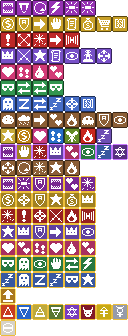
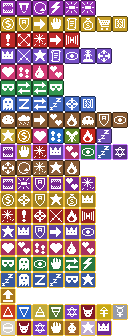
Seven Sins 1.2.1: Solomon's ultimates (levels 15 and 25), walk strides for envy, lust and wrath
Solomon learns one of three ultimates at level 15 and one of three at 25:
Legion of the Goetia, Eternal Circle, Command of the Ring / Brass Vessel,
Magnum Opus, Throne of Wisdom.

Claude-Session: https://claude.ai/code/session_012M3rhPDTM1aAWScAh2m7cE

Changed region(s): [[0.125, 0.9524, 0.875, 1.0]]

diff --git a/core/src/main/java/com/shatteredpixel/shatteredpixeldungeon/sins/UltimateSkills.java b/core/src/main/java/com/shatteredpixel/shatteredpixeldungeon/sins/UltimateSkills.java
@@ -68,6 +68,15 @@ public final class UltimateSkills {
 				&& hero.heroClass.ordinal() <= HeroClass.SLOTH.ordinal();
 	}
 
+	/** the sins and Solomon learn ultimates */
+	public static boolean hasUltimates(Hero hero) {
+		return isSin(hero) || (hero != null && hero.heroClass == HeroClass.SOLOMON);
+	}
+
+	private static int level(Hero hero, int tier) {
+		return Ultimate.level(hero.heroClass, tier);
+	}
+
 	public static UltimateBook book(Hero hero) {
 		return hero == null ? null : hero.buff(UltimateBook.class);
 	}
@@ -76,14 +85,14 @@ public final class UltimateSkills {
 	public static int pendingTier(Hero hero) {
 		UltimateBook b = book(hero);
 		if (b == null) return 0;
-		if (hero.lvl >= Ultimate.TIER1_LEVEL && b.first == null) return 1;
-		if (hero.lvl >= Ultimate.TIER2_LEVEL && b.second == null) return 2;
+		if (hero.lvl >= level(hero, 1) && b.first == null) return 1;
+		if (hero.lvl >= level(hero, 2) && b.second == null) return 2;
 		return 0;
 	}
 
 	/** from Hero.act: gives sin heroes the book and announces open choices */
 	public static void tick(Hero hero) {
-		if (!isSin(hero)) return;
+		if (!hasUltimates(hero)) return;
 		UltimateBook b = book(hero);
 		if (b == null) {
 			b = Buff.affect(hero, UltimateBook.class);
@@ -92,11 +101,11 @@ public final class UltimateSkills {
 		int t = pendingTier(hero);
 		if (t == 1 && !b.told1) {
 			b.told1 = true;
-			GLog.p(Messages.get(UltimateSkills.class, "can_learn", Ultimate.TIER1_LEVEL));
+			GLog.p(Messages.get(UltimateSkills.class, "can_learn", level(hero, 1)));
 			resyncBar();
 		} else if (t == 2 && !b.told2) {
 			b.told2 = true;
-			GLog.p(Messages.get(UltimateSkills.class, "can_learn", Ultimate.TIER2_LEVEL));
+			GLog.p(Messages.get(UltimateSkills.class, "can_learn", level(hero, 2)));
 			resyncBar();
 		}
 	}
@@ -116,7 +125,7 @@ public final class UltimateSkills {
 	public static ArrayList<SinSkill> skills(Hero hero) {
 		ArrayList<SinSkill> out = new ArrayList<>();
 		UltimateBook b = book(hero);
-		if (b == null || !isSin(hero)) return out;
+		if (b == null || !hasUltimates(hero)) return out;
 		if (b.first != null) out.add(new UltimateSkill(b.first));
 		if (b.second != null) out.add(new UltimateSkill(b.second));
 		if (pendingTier(hero) > 0) out.add(new LearnSkill());
@@ -189,7 +198,7 @@ public final class UltimateSkills {
 
 		@Override
 		public String desc(Hero hero) {
-			return Messages.get(UltimateSkills.class, "learn_desc", Ultimate.TIER1_LEVEL, Ultimate.TIER2_LEVEL);
+			return Messages.get(UltimateSkills.class, "learn_desc", level(hero, 1), level(hero, 2));
 		}
 
 		@Override
@@ -216,7 +225,7 @@ public final class UltimateSkills {
 		String[] labels = new String[options.size()];
 		for (int i = 0; i < labels.length; i++) labels[i] = options.get(i).title();
 		GameScene.show(new WndOptions(new SinSkillIcon(Ultimate.LEARN_ICON).image(),
-				Messages.get(UltimateSkills.class, "choose_title", tier == 1 ? Ultimate.TIER1_LEVEL : Ultimate.TIER2_LEVEL),
+				Messages.get(UltimateSkills.class, "choose_title", level(hero, tier)),
 				Messages.get(UltimateSkills.class, "choose_msg"), labels) {
 			@Override
 			protected void onSelect(int index) {
@@ -301,6 +310,15 @@ public final class UltimateSkills {
 			case MIDAS: return new Object[]{15 * Math.max(1, Dungeon.depth)};
 			case COMPOUND: return new Object[]{100 * Math.max(1, Dungeon.depth)};
 			case FATAL_KISS: return new Object[]{Math.round(h.HT * 0.4f)};
+			case LEGION_GOETIA: return new Object[]{LEGION_COUNT, Math.round(LEGION_TURNS)};
+			case ETERNAL_CIRCLE: return new Object[]{Math.round(ETERNAL_TURNS)};
+			case RING_COMMAND: return new Object[]{Math.round(COMMAND_TURNS), Math.round(COMMAND_BOSS_PARA)};
+			case BRASS_VESSEL: return new Object[]{Math.round(VESSEL_TURNS)};
+			case MAGNUM_OPUS: {
+				float p = spellPower(h);
+				return new Object[]{Math.round(2 * l * p), Math.round((3 * l + 10) * p), 10 * Math.max(1, Dungeon.depth)};
+			}
+			case THRONE_OF_WISDOM: return new Object[]{Math.round(THRONE_TURNS)};
 			default: return new Object[0];
 		}
 	}
@@ -589,9 +607,97 @@ public final class UltimateSkills {
 				return true;
 			}
 			case DAYDREAM: effect(hero, u, 25f); return true;
+
+			case LEGION_GOETIA: return legion(hero);
+			case ETERNAL_CIRCLE: effect(hero, u, ETERNAL_TURNS); Sample.INSTANCE.play(Assets.Sounds.CHARGEUP); return true;
+			case MAGNUM_OPUS: {
+				ArrayList<Mob> foes = enemies(hero, 0);
+				if (foes.isEmpty()) {
+					GLog.w(Messages.get(UltimateSkills.class, "no_enemies"));
+					return false;
+				}
+				float p = spellPower(hero);
+				for (Mob m : foes) {
+					m.damage(Math.round(big(hero) * p), Ultimate.class);
+					CellEmitter.center(m.pos).burst(Speck.factory(Speck.LIGHT), 5);
+					if (m.isAlive() && !boss(m) && m.HP < m.HT / 4f) {
+						int pos = m.pos;
+						CellEmitter.get(pos).burst(Speck.factory(Speck.WOOL), 8);
+						kill(m);
+						Dungeon.level.drop(new Gold(10 * Math.max(1, Dungeon.depth)), pos).sprite.drop();
+					}
+				}
+				Sample.INSTANCE.play(Assets.Sounds.LIGHTNING);
+				return true;
+			}
+			case THRONE_OF_WISDOM: effect(hero, u, THRONE_TURNS); Sample.INSTANCE.play(Assets.Sounds.LEVELUP); return true;
 			default:
 				return false;
 		}
+	}
+
+	// ------------------------------------------------------------------ Solomon (Nov 19 2026)
+
+	public static final int LEGION_COUNT = 3;
+	public static final float LEGION_TURNS = 15f;
+	public static final float ETERNAL_TURNS = 12f;
+	public static final float COMMAND_TURNS = 30f;
+	public static final float COMMAND_BOSS_PARA = 3f;
+	public static final float VESSEL_TURNS = 5f;
+	public static final float THRONE_TURNS = 20f;
+
+	private static float spellPower(Hero hero) {
+		com.shatteredpixel.shatteredpixeldungeon.actors.buffs.SolomonArcana a =
+				hero.buff(com.shatteredpixel.shatteredpixeldungeon.actors.buffs.SolomonArcana.class);
+		return a == null ? 1f : a.spellPower();
+	}
+
+	/** Eternal Circle: casting keeps the circle and costs half (SolomonHooks) */
+	public static boolean eternalCircle(Hero hero) {
+		return active(hero, Ultimate.ETERNAL_CIRCLE) != null;
+	}
+
+	/** Throne of Wisdom: every principle, free drawing, mana x3 (SolomonHooks, SolomonArcana, SolomonRing) */
+	public static boolean throne(Hero hero) {
+		return active(hero, Ultimate.THRONE_OF_WISDOM) != null;
+	}
+
+	/** a pact of the ultimates: like a summon's, but outside the summon limit (Char.buff matches exact classes) */
+	public static class RingPact extends com.shatteredpixel.shatteredpixeldungeon.solomon.SolomonSpells.SummonPact {
+	}
+
+	/** Legion of the Goetia: the strongest demons of the Lemegeton all at once */
+	private static boolean legion(Hero hero) {
+		ArrayList<com.shatteredpixel.shatteredpixeldungeon.goetia.GoetiaDemon> list =
+				com.shatteredpixel.shatteredpixeldungeon.solomon.SolomonSpells.summonable();
+		if (list.isEmpty()) {
+			GLog.w(Messages.get(com.shatteredpixel.shatteredpixeldungeon.solomon.SolomonSpells.class, "no_demons"));
+			return false;
+		}
+		ArrayList<Integer> cells = new ArrayList<>();
+		for (int n : PathFinder.NEIGHBOURS8) {
+			int c = hero.pos + n;
+			if (Dungeon.level.passable[c] && !Dungeon.level.avoid[c] && Actor.findChar(c) == null) cells.add(c);
+		}
+		int made = 0;
+		for (int i = 0; i < LEGION_COUNT && i < list.size() && !cells.isEmpty(); i++) {
+			com.shatteredpixel.shatteredpixeldungeon.actors.mobs.goetia.GoetiaFiend f =
+					new com.shatteredpixel.shatteredpixeldungeon.actors.mobs.goetia.GoetiaFiend();
+			f.setup(list.get(i), Math.max(Dungeon.depth, Dungeon.scalingDepth()));
+			f.minion = true;
+			f.pos = cells.remove(Random.Int(cells.size()));
+			f.state = f.WANDERING;
+			GameScene.add(f);
+			Buff.affect(f, RingPact.class).set(LEGION_TURNS);
+			CellEmitter.get(f.pos).burst(Speck.factory(Speck.WOOL), 8);
+			made++;
+		}
+		if (made == 0) {
+			GLog.w(Messages.get(UltimateSkills.class, "no_room"));
+			return false;
+		}
+		Sample.INSTANCE.play(Assets.Sounds.TELEPORT);
+		return true;
 	}
 
 	private static boolean puppets(Hero hero, int n, float life) {
@@ -718,6 +824,32 @@ public final class UltimateSkills {
 				Sample.INSTANCE.play(Assets.Sounds.LULLABY);
 				return true;
 			}
+			case RING_COMMAND:
+				if (!boss(ch) && ch instanceof Mob) {
+					AllyBuff.affectAndLoot((Mob) ch, hero, RingPact.class);
+					RingPact p = ch.buff(RingPact.class);
+					if (p != null) p.set(COMMAND_TURNS);
+					((Mob) ch).state = ((Mob) ch).WANDERING;
+					ch.sprite.emitter().burst(Speck.factory(Speck.STAR), 8);
+				} else {
+					Buff.prolong(ch, Paralysis.class, COMMAND_BOSS_PARA);
+					Buff.prolong(ch, Vulnerable.class, 10f);
+					ch.sprite.emitter().burst(Speck.factory(Speck.STAR), 8);
+				}
+				Sample.INSTANCE.play(Assets.Sounds.CHARMS);
+				return true;
+			case BRASS_VESSEL:
+				if (!boss(ch)) {
+					CellEmitter.get(ch.pos).burst(Speck.factory(Speck.WOOL), 10);
+					kill(ch);
+				} else if (ch.isImmune(Paralysis.class) || Char.hasProp(ch, Char.Property.IMMOVABLE)) {
+					ch.damage(2 * big(hero), Ultimate.class);
+				} else {
+					Buff.prolong(ch, Paralysis.class, VESSEL_TURNS);
+					Buff.append(ch, UltimateBook.Mark.class, VESSEL_TURNS).set(u);
+				}
+				Sample.INSTANCE.play(Assets.Sounds.TELEPORT);
+				return true;
 			default:
 				return false;
 		}
@@ -763,6 +895,7 @@ public final class UltimateSkills {
 		if (target instanceof Mob) {
 			if (marked(target, Ultimate.VENDETTA)) dmg = Math.round(dmg * 1.5f);
 			if (marked(target, Ultimate.BOUNTY)) dmg = Math.round(dmg * 1.3f);
+			if (marked(target, Ultimate.BRASS_VESSEL)) dmg *= 2;
 			return dmg;
 		}
 

diff --git a/core/src/main/java/com/shatteredpixel/shatteredpixeldungeon/sins/Ultimate.java b/core/src/main/java/com/shatteredpixel/shatteredpixeldungeon/sins/Ultimate.java
@@ -9,7 +9,7 @@ import java.util.ArrayList;
 /**
  * Seven Sins: ultimate skills (Nov 17 2026, owner). Every sin has six: at hero level 10 it learns one of its
  * three tier 1 ultimates, at level 20 one of its three tier 2 ones (UltimateSkills / actors/buffs/UltimateBook).
- * Ultimates cost nothing but a cooldown. Icons: skill_icons.png row 11 + sin index (88 + 8k + slot).
+ * Solomon learns his at 15 / 25 (`level`). Ultimates cost nothing but a cooldown. Icons: skill_icons.png row 11 + sin index (88 + 8k + slot).
  * Strings: sins.ultimate.[id] / [id]_desc (tools/strings/ultimates_items_*).
  */
 public enum Ultimate {
@@ -62,11 +62,29 @@ public enum Ultimate {
 	REVERIE(HeroClass.SLOTH, 1, 2, SinSkill.TARGET_NONE, 100),
 	ETERNAL_SLEEP(HeroClass.SLOTH, 2, 3, SinSkill.TARGET_ENEMY, 150),
 	NIGHTMARE(HeroClass.SLOTH, 2, 4, SinSkill.TARGET_NONE, 150),
-	DAYDREAM(HeroClass.SLOTH, 2, 5, SinSkill.TARGET_NONE, 150);
+	DAYDREAM(HeroClass.SLOTH, 2, 5, SinSkill.TARGET_NONE, 150),
+	// ---- Solomon (Nov 19 2026, owner: learned at levels 15 and 25, between his principles at 10 and 20)
+	LEGION_GOETIA(HeroClass.SOLOMON, 1, 0, SinSkill.TARGET_NONE, 150),
+	ETERNAL_CIRCLE(HeroClass.SOLOMON, 1, 1, SinSkill.TARGET_NONE, 120),
+	RING_COMMAND(HeroClass.SOLOMON, 1, 2, SinSkill.TARGET_ENEMY, 100),
+	BRASS_VESSEL(HeroClass.SOLOMON, 2, 3, SinSkill.TARGET_ENEMY, 200),
+	MAGNUM_OPUS(HeroClass.SOLOMON, 2, 4, SinSkill.TARGET_NONE, 180),
+	THRONE_OF_WISDOM(HeroClass.SOLOMON, 2, 5, SinSkill.TARGET_NONE, 200);
 
 	/** hero level that opens each tier's choice */
 	public static final int TIER1_LEVEL = 10;
 	public static final int TIER2_LEVEL = 20;
+	/** Solomon learns his at 15 and 25 (his principles come at 10 and 20) */
+	public static final int SOLOMON_TIER1_LEVEL = 15;
+	public static final int SOLOMON_TIER2_LEVEL = 25;
+	/** Solomon's ultimates sit in skill_icons.png row 20, after the salt principle (160) */
+	public static final int SOLOMON_ICONS = 161;
+
+	/** hero level that opens a class's tier choice */
+	public static int level(HeroClass cls, int tier) {
+		if (cls == HeroClass.SOLOMON) return tier == 1 ? SOLOMON_TIER1_LEVEL : SOLOMON_TIER2_LEVEL;
+		return tier == 1 ? TIER1_LEVEL : TIER2_LEVEL;
+	}
 	/** icon of the "learn an ultimate" button (skill_icons.png row 18) */
 	public static final int LEARN_ICON = 144;
 
@@ -79,7 +97,8 @@ public enum Ultimate {
 	Ultimate(HeroClass sin, int tier, int slot, int targeting, int cooldown) {
 		this.sin = sin;
 		this.tier = tier;
-		this.icon = 88 + 8 * (sin.ordinal() - HeroClass.GLUTTONY.ordinal()) + slot;
+		this.icon = sin == HeroClass.SOLOMON ? SOLOMON_ICONS + slot
+				: 88 + 8 * (sin.ordinal() - HeroClass.GLUTTONY.ordinal()) + slot;
 		this.targeting = targeting;
 		this.cooldown = cooldown;
 	}

diff --git a/core/src/main/java/com/shatteredpixel/shatteredpixeldungeon/solomon/SolomonHooks.java b/core/src/main/java/com/shatteredpixel/shatteredpixeldungeon/solomon/SolomonHooks.java
@@ -70,6 +70,7 @@ public final class SolomonHooks {
 	/** time to draw a symbol: 0.5 turns, -0.1 per point of Deft Hands */
 	public static float drawTime(Hero hero) {
 		float t = Math.max(0.2f, SolomonSpells.DRAW_TIME - 0.1f * pts(hero, Talent.SOL_DEFTNESS));
+		if (hero != null && com.shatteredpixel.shatteredpixeldungeon.sins.UltimateSkills.throne(hero)) return 0f; //Seven Sins: ultimates, Throne of Wisdom
 		SolomonArcana a = hero == null ? null : hero.buff(SolomonArcana.class);
 		return a != null && a.mirrored ? t * 0.5f : t;
 	}
@@ -79,6 +80,7 @@ public final class SolomonHooks {
 		float c = base;
 		if (triad) c *= 1f - 0.1f * pts(hero, Talent.SOL_TRIAD);
 		if (hero != null && hero.buff(SolomonPrinciples.Elixir.class) != null) c *= 0.5f;
+		if (hero != null && com.shatteredpixel.shatteredpixeldungeon.sins.UltimateSkills.eternalCircle(hero)) c *= 0.5f; //Seven Sins: ultimates, Eternal Circle
 		return Math.max(1, Math.round(c));
 	}
 
@@ -108,7 +110,9 @@ public final class SolomonHooks {
 			hero.sprite.showStatus(0xCC99FF, Messages.get(SolomonHooks.class, "echo"));
 		}
 		int circle = pts(hero, Talent.MAGUS_CIRCLE);
-		if (circle > 0 && Random.Int(100) < 15 * circle) {
+		if (com.shatteredpixel.shatteredpixeldungeon.sins.UltimateSkills.eternalCircle(hero)) {
+			//Eternal Circle: the symbols stay drawn
+		} else if (circle > 0 && Random.Int(100) < 15 * circle) {
 			hero.sprite.showStatus(0xCC99FF, Messages.get(SolomonHooks.class, "circle_kept"));
 		} else {
 			a.circle.clear();

diff --git a/tools/sinsart/make_skill_icons.py b/tools/sinsart/make_skill_icons.py
@@ -751,6 +751,26 @@ G["SALT"] = [
 ICONS.update({158: "SULFUR", 159: "MERCURY", 160: "SALT"})
 SOLOMON_COLORS.update({158: (200, 170, 20), 159: (150, 155, 170), 160: (215, 210, 200)})
 
+# Solomon's ultimates (Nov 19 2026, sins/Ultimate SOLOMON_ICONS 161..166): legion, eternal circle, ring command,
+# brass vessel, magnum opus, throne of wisdom; violet like his cast button, gold rim like every ultimate
+G["VESSEL"] = [
+    "............",
+    "....XXXX....",
+    ".....XX.....",
+    "....XXXX....",
+    "...XXXXXX...",
+    "..XXXXXXXX..",
+    "..XX.XX.XX..",
+    "..XXXXXXXX..",
+    "...XXXXXX...",
+    "....XXXX....",
+    "...XXXXXX...",
+    "............",
+]
+ICONS.update({161: "HORNS", 162: "HEXAGRAM", 163: "HAND", 164: "VESSEL", 165: "STAR", 166: "CROWN"})
+SOLOMON_COLORS.update({161: (130, 25, 40), 162: (120, 60, 190), 163: (150, 110, 30), 164: (160, 100, 40),
+                       165: (190, 170, 210), 166: (110, 40, 150)})
+
 
 
 # the demon lords' skills take their lord's colour (DemonLord order)

diff --git a/core/src/main/java/com/shatteredpixel/shatteredpixeldungeon/items/SolomonRing.java b/core/src/main/java/com/shatteredpixel/shatteredpixeldungeon/items/SolomonRing.java
@@ -69,7 +69,8 @@ public class SolomonRing extends SinArtifact {
 		ArrayList<SinSkill> list = new ArrayList<>();
 		SolomonArcana a = arcana(hero);
 		for (final SolomonSpells.Element e : SolomonSpells.Element.values()) {
-			if (com.shatteredpixel.shatteredpixeldungeon.solomon.SolomonPrinciples.isPrinciple(e) && !a.principles.contains(e)) continue;
+			if (com.shatteredpixel.shatteredpixeldungeon.solomon.SolomonPrinciples.isPrinciple(e) && !a.principles.contains(e)
+					&& !com.shatteredpixel.shatteredpixeldungeon.sins.UltimateSkills.throne(hero)) continue; //Throne of Wisdom: every principle
 			list.add(new SymbolSkill(e));
 		}
 		list.add(new CastSkill());

diff --git a/core/src/main/java/com/shatteredpixel/shatteredpixeldungeon/actors/buffs/SolomonArcana.java b/core/src/main/java/com/shatteredpixel/shatteredpixeldungeon/actors/buffs/SolomonArcana.java
@@ -55,6 +55,7 @@ public class SolomonArcana extends Buff {
 		//the Arch Magus draws mana 25% faster
 		if (h != null && h.subClass == com.shatteredpixel.shatteredpixeldungeon.actors.hero.HeroSubClass.ARCH_MAGUS) t /= 1.25f;
 		if (h != null) t /= 1f + 0.15f * h.pointsInTalent(com.shatteredpixel.shatteredpixeldungeon.actors.hero.Talent.SOL_FOCUS);
+		if (h != null && com.shatteredpixel.shatteredpixeldungeon.sins.UltimateSkills.throne(h)) t /= 3f; //Seven Sins: ultimates, Throne of Wisdom
 		return t;
 	}
 

diff --git a/CLAUDE.md b/CLAUDE.md
@@ -505,6 +505,17 @@ Done and pushed (see `git log`):
   every exposed hall tile (`exposedCells`, line of sight from the giant) shows a pulsing "!" (`effects/AlertCell`, made on the
   render thread, cleared on release/collapse, re-shown after a reload). Old floor-31 saves keep the 29x25 map and won't line
   up with the new constants.
+- Solomon's ultimates (Nov 19 2026, owner picked Claude's six; learned at levels 15 and 25, `Ultimate.level(cls, tier)`,
+  between his principles at 10/20; `UltimateSkills.hasUltimates` = sins + Solomon, `isSin` still sins only; icons
+  skill_icons.png row 20 = `Ultimate.SOLOMON_ICONS` 161..166, violet with gold rim): tier 1 LEGION_GOETIA (the 3 strongest
+  of `SolomonSpells.summonable()` for 15 turns under `UltimateSkills.RingPact`, a SummonPact subclass, so `activeSummons`'s
+  exact-class count ignores them), ETERNAL_CIRCLE (12-turn Effect: `SolomonHooks.afterCast` keeps the circle, `adjustCost`
+  halves), RING_COMMAND (non-boss -> `AllyBuff.affectAndLoot` with RingPact 30 turns, it dies when the pact ends; boss ->
+  paralysis 3 + vulnerable 10); tier 2 BRASS_VESSEL (non-boss killed via `die(Ultimate.class)`, so Goetia fiends are
+  recorded; boss -> paralysis 5 + a 5-turn Mark doubling damage in `modifyDamage`; paralysis-immune or IMMOVABLE bosses take
+  2x `big`), MAGNUM_OPUS (all enemies in sight `big` x spell power, non-bosses under 1/4 HP die and drop 10 x depth gold),
+  THRONE_OF_WISDOM (20-turn Effect: `SolomonRing.skills` shows unlearned principles, `drawTime` 0, `turnsPerMana` /3).
+  Strings in `tools/strings/ultimates_items_*`.
 - Remains items for every sin (`items/remains/`: MawFang, MeltedCard, TornDrumhead, CrackedGem,
   BrokenPerfume, MirrorShard, PillowStuffing; dispatched in `RemainsItem.get`; art row 36 +5..11).
   CrackedGem's `Ward` buff is checked in `Hero.defenseProc`.
@@ -805,7 +816,7 @@ their base weapon's ability text. Gluttony's strings predate the source copies; 
 
 - Normal PC: open in Android Studio, or `./gradlew android:assembleDebug`.
 - Phone testing: push to GitHub; `.github/workflows/build-apk.yml` builds and publishes the APK.
-- Versions (Nov 2026): the mod has its own version in `build.gradle` (`appVersionName` 1.2.0, `appVersionCode` 1004 since Nov 18 2026 (1.1.2/1003, 1.1.1/1002, 1.1.0/1001 and 1.0.0/1000 before),
+- Versions (Nov 2026): the mod has its own version in `build.gradle` (`appVersionName` 1.2.1, `appVersionCode` 1005 since Nov 19 2026 (1.2.0/1004, 1.1.2/1003, 1.1.1/1002, 1.1.0/1001 and 1.0.0/1000 before),
   `spdBaseVersion` 4.0.2; the title screen and menu show "Seven Sins v<version>"). To release: raise both (code +1 each
   time, never lower) and push to main: when no release `v<version>` exists yet the workflow creates the tag and publishes a
   "Seven Sins <version>" release with `SevenSins-<version>.apk` (same debug build: dev tools on, installs over test builds,
